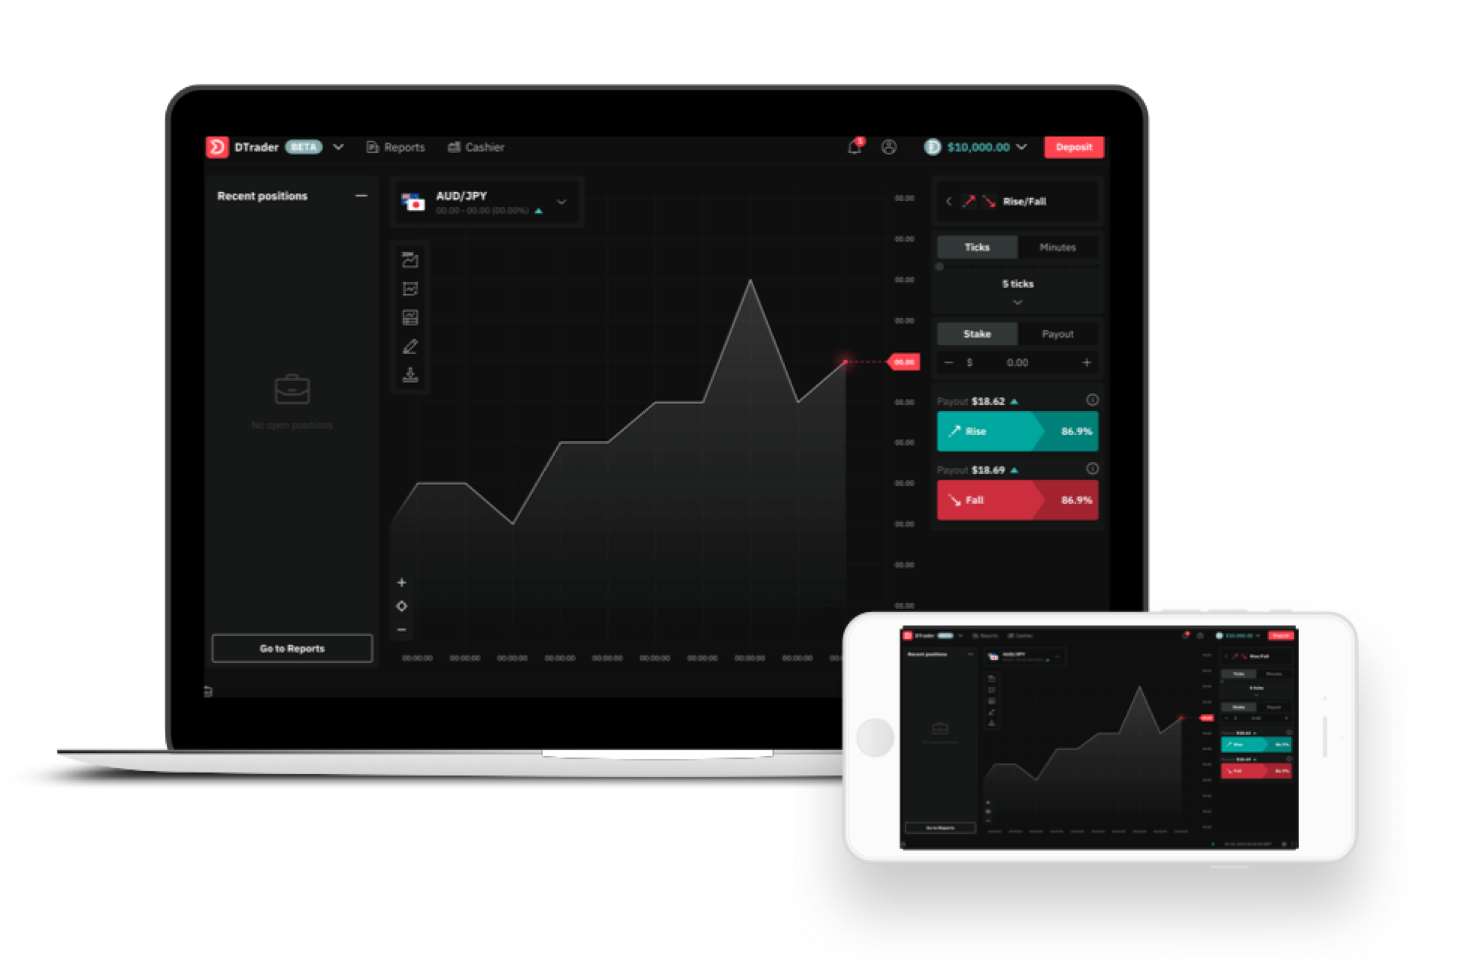
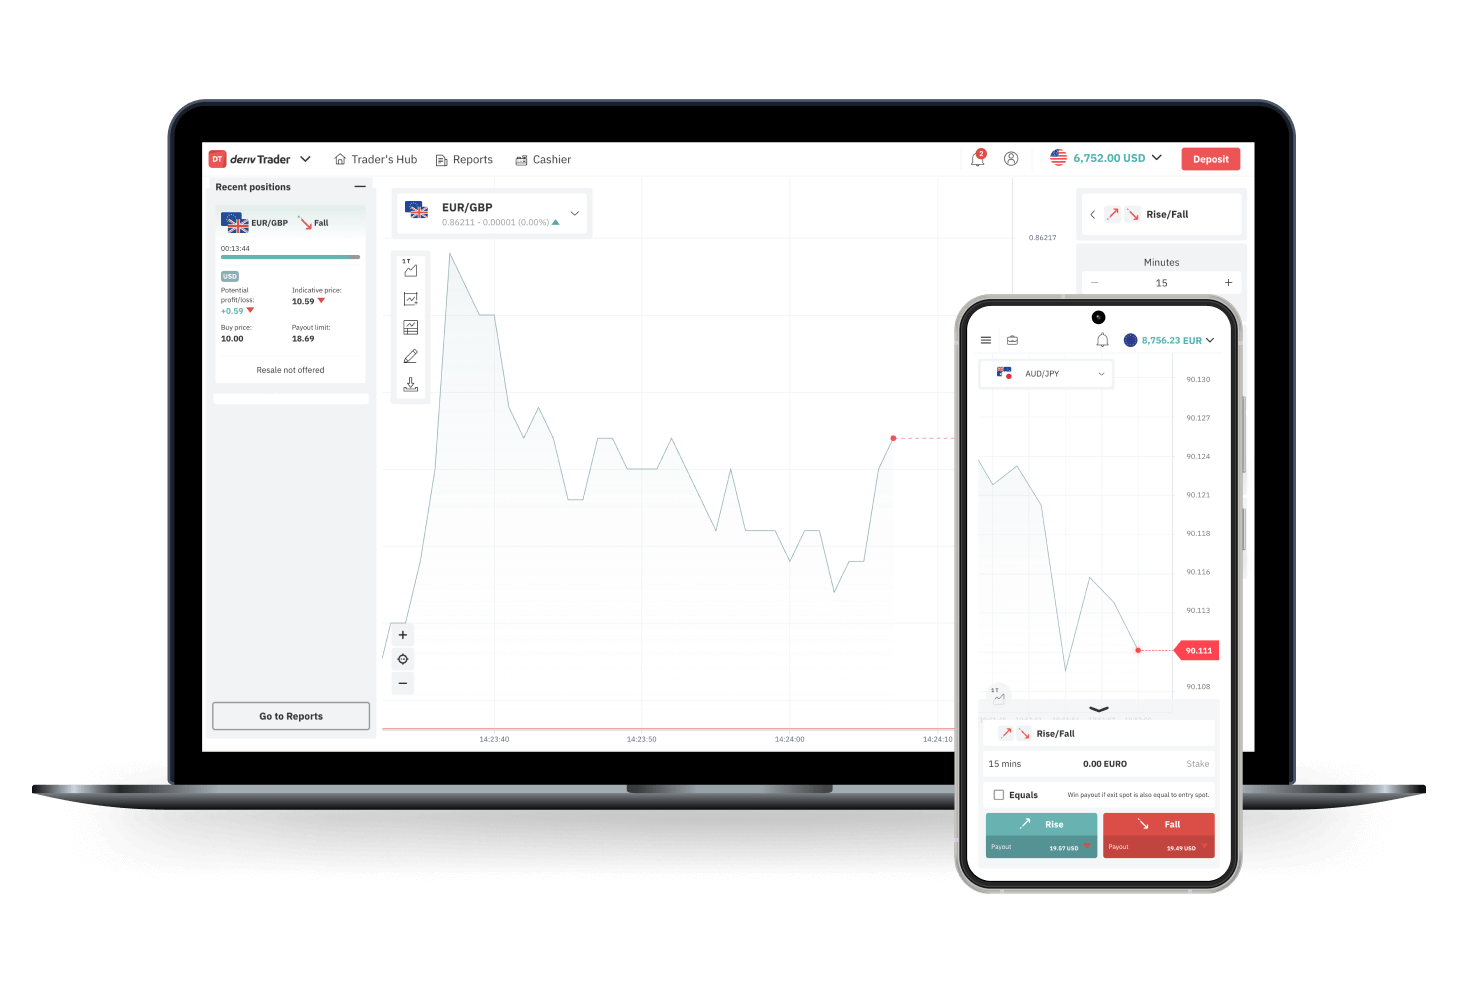
fix: about -us changes

diff --git a/src/pages/partners/_about-deriv.tsx b/src/pages/partners/_about-deriv.tsx
@@ -5,10 +5,14 @@ import { Container, Flex, Desktop, Mobile } from 'components/containers'
 import { Header, Text, QueryImage } from 'components/elements'
 import { Localize, localize } from 'components/localization'
 import device from 'themes/device'
+import useRegion from 'components/hooks/use-region'
 
 const query = graphql`
     {
         deriv_platform: file(relativePath: { eq: "partner-deriv-platform.png" }) {
+            ...fadeIn
+        }
+        deriv_platform_eu: file(relativePath: { eq: "partner-deriv-platform-eu.png" }) {
             ...fadeIn
         }
     }
@@ -30,6 +34,7 @@ const ImageWrapper = styled.div`
 
 const AboutDeriv = () => {
     const data = useStaticQuery(query)
+    const { is_eu, is_region_loading } = useRegion()
     return (
         <Container direction="column">
             <Mobile>
@@ -38,12 +43,14 @@ const AboutDeriv = () => {
                 </Header>
             </Mobile>
             <WrapContainer mb="8rem">
-                <ImageWrapper>
-                    <QueryImage
-                        data={data.deriv_platform}
-                        alt={localize('_t_Deriv.com on laptop and mobile_t_')}
-                    />
-                </ImageWrapper>
+                {!is_region_loading ? (
+                    <ImageWrapper>
+                        <QueryImage
+                            data={is_eu ? data.deriv_platform_eu : data.deriv_platform}
+                            alt={localize('_t_Deriv.com on laptop and mobile_t_')}
+                        />
+                    </ImageWrapper>
+                ) : null}
 
                 <Flex direction="column" ml="2.4rem" max_width="69rem">
                     <Desktop>
@@ -52,10 +59,10 @@ const AboutDeriv = () => {
                         </Header>
                     </Desktop>
                     <Text size="var(--text-size-m)" mb="2rem">
-                        <Localize translate_text="_t_Deriv is the next step in the evolution of Binary.com, the company with a proven record of delivering market-leading products that are trusted around the world._t_" />
+                        <Localize translate_text="_t_Deriv has a proven record of delivering market-leading products that are trusted around the world._t_" />
                     </Text>
                     <Text size="var(--text-size-m)">
-                        <Localize translate_text="_t_We offer the widest selection of derivatives to trade, with sharp prices and tight spreads that attract over 2.5 million online traders worldwide. Our technology provides an intuitive and powerful trading experience, enabling our clients to understand risk more effectively to make better trading decisions._t_" />
+                        <Localize translate_text="_t_We offer the widest selection of derivatives to trade, with sharp prices and tight spreads that attract over 2.5 million online traders worldwide. Our technology provides an intuitive and powerful trading experience, enabling our clients to understand risk more effectively to make informed trading decisions._t_" />
                     </Text>
                 </Flex>
             </WrapContainer>

diff --git a/src/pages/partners/_deriv-numbers.tsx b/src/pages/partners/_deriv-numbers.tsx
@@ -14,8 +14,8 @@ const Wrapper = styled(Flex)`
 const Card = styled(Flex)`
     ${CardStyle}
     padding: 2.4rem;
-    max-width: 20.8rem;
-    min-height: 15.8rem;
+    max-width: 28.2rem;
+    min-height: 16.8rem;
     justify-content: flex-start;
     block-size: auto;
 `
@@ -33,7 +33,7 @@ const DerivNumbers = () => {
             <Wrapper mb="8rem">
                 <Card direction="column">
                     <CardHeader as="p" size="var(--text-size-header-1)" mb="0.8rem" align="center">
-                        20+
+                        23
                     </CardHeader>
                     <Text align="center">
                         <Localize translate_text="_t_Years of industry experience_t_" />
@@ -41,15 +41,15 @@ const DerivNumbers = () => {
                 </Card>
                 <Card direction="column">
                     <CardHeader as="p" size="var(--text-size-header-1)" mb="0.8rem" align="center">
-                        6.5M+
+                        1M+
                     </CardHeader>
                     <Text align="center">
-                        <Localize translate_text="_t_Trading accounts opened_t_" />
+                        <Localize translate_text="_t_Active traders_t_" />
                     </Text>
                 </Card>
                 <Card direction="column">
                     <CardHeader as="p" size="var(--text-size-header-1)" mb="0.8rem" align="center">
-                        USD 12T+
+                        USD 15T+
                     </CardHeader>
                     <Text align="center">
                         <Localize translate_text="_t_Total trade turnover_t_" />
@@ -57,15 +57,7 @@ const DerivNumbers = () => {
                 </Card>
                 <Card direction="column">
                     <CardHeader as="p" size="var(--text-size-header-1)" mb="0.8rem" align="center">
-                        200M+
-                    </CardHeader>
-                    <Text align="center">
-                        <Localize translate_text="_t_Trades last month_t_" />
-                    </Text>
-                </Card>
-                <Card direction="column">
-                    <CardHeader as="p" size="var(--text-size-header-1)" mb="0.8rem" align="center">
-                        USD 47M+
+                        USD 45M+
                     </CardHeader>
                     <Text align="center">
                         <Localize translate_text="_t_Withdrawals last month_t_" />
